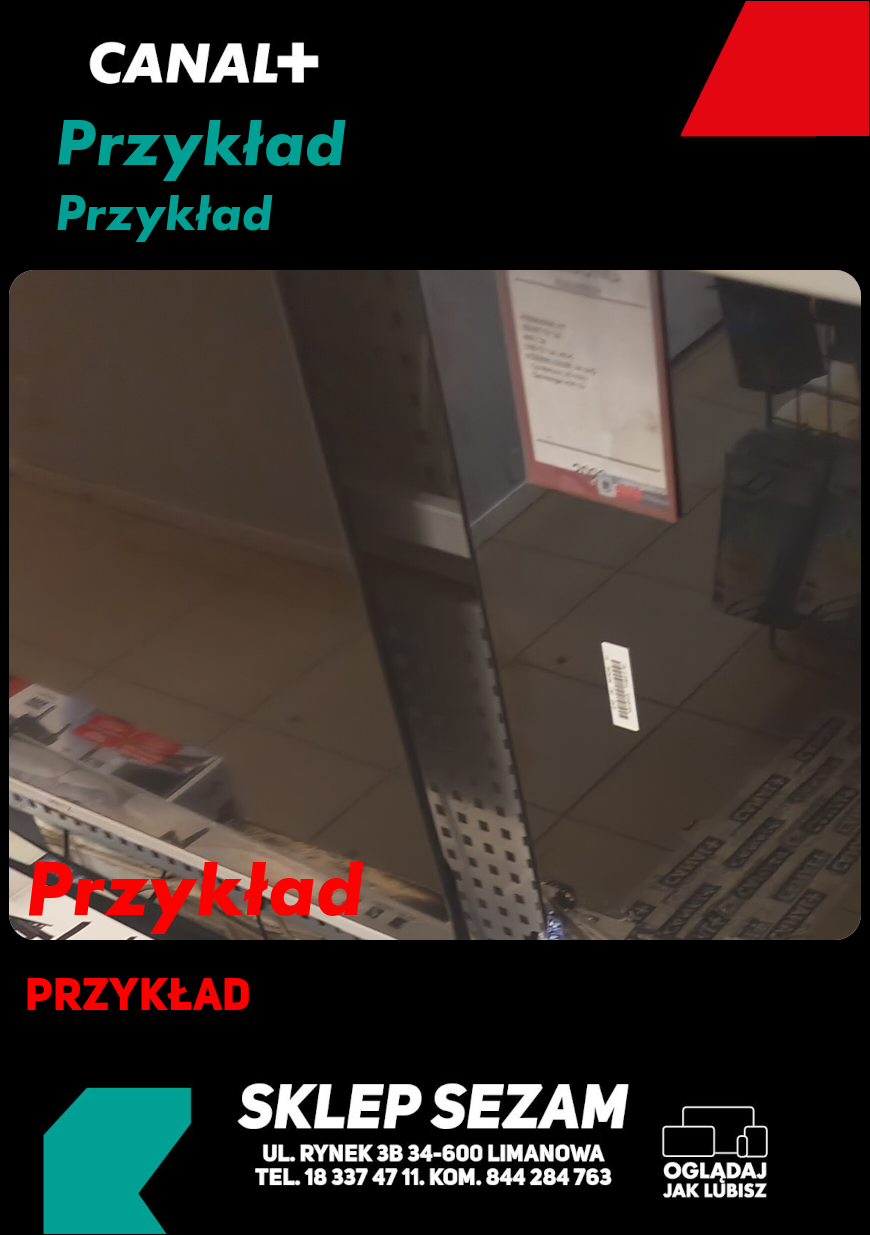
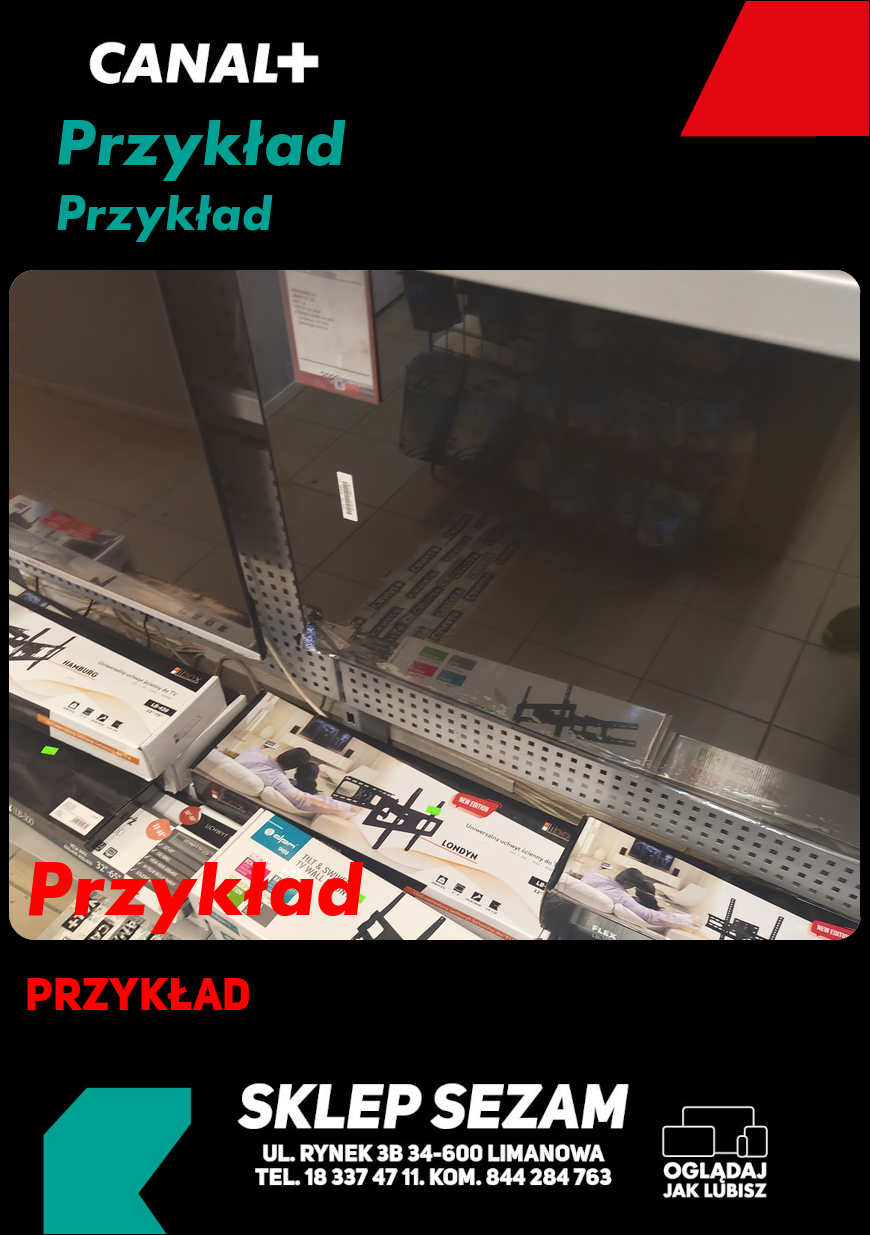
Add Image Template

diff --git a/gen/canalp_2.py b/gen/canalp_2.py
@@ -12,8 +12,6 @@ def generate_image_from_text_files(text_files, output_image, lines_y, image_mapp
     image = Image.new("RGBA", (image_width, image_height), background_color)
     draw = ImageDraw.Draw(image)
     
-
-
     # Paste PNG images specified in the image_data dictionary
     for image_file, image_properties in image_data.items():
         # Get the absolute path to the image file
@@ -25,7 +23,18 @@ def generate_image_from_text_files(text_files, output_image, lines_y, image_mapp
         # Resize the PNG image if specified
         if 'scale' in image_properties:
             scale = image_properties['scale']
-            png_image = png_image.resize((int(png_image.width * scale), int(png_image.height * scale)))
+            png_image = png_image.resize((int(png_image.width * scale), int(png_image.height * scale)), Image.LANCZOS)  # Add Image.ANTIALIAS for better quality when downsizing
+        else:
+            # Define the target size for scaling
+            target_width = 200  # Adjust this value to your desired width
+            target_height = 200  # Adjust this value to your desired height
+            # Calculate the scaling factor for both dimensions
+            width_scale = target_width / png_image.width
+            height_scale = target_height / png_image.height
+            # Use the smaller scaling factor to ensure the entire image fits within the target size
+            scale = min(width_scale, height_scale)
+            # Resize the image
+            png_image = png_image.resize((int(png_image.width * scale), int(png_image.height * scale)), Image.LANCZOS)  # Add Image.ANTIALIAS for better quality when downsizing
 
         # Get the position for pasting the PNG image
         image_x = image_properties.get('x', 0)
@@ -63,7 +72,7 @@ def generate_image_from_text_files(text_files, output_image, lines_y, image_mapp
         # Draw text on image
         draw.text((text_x, text_y), text, fill=font_color, font=font)
 
-        # Check if the current text file is the one to apply image mapping
+        # Check if the current text file is the one to
         if "title.txt" in os.path.basename(text_file):
             print(f"Text read from title.txt: {text}")  # Debug
             # Convert everything to lowercases
@@ -130,7 +139,7 @@ image_mapping = {
 }  # Dictionary containing text content and corresponding PNG image filenames
 
 image_data = {
-    "test.png": {"x": 0, "y": 255, "scale": 0.5},
+    "test.png": {"x": 0, "y": 255, "scale": 0.28},
     "canal+/canalp_2.png": {"x": 0, "y": 0, "scale": 1},
 
   #  "tlo.png": {"x": 35, "y": 1150, "scale": 10},
